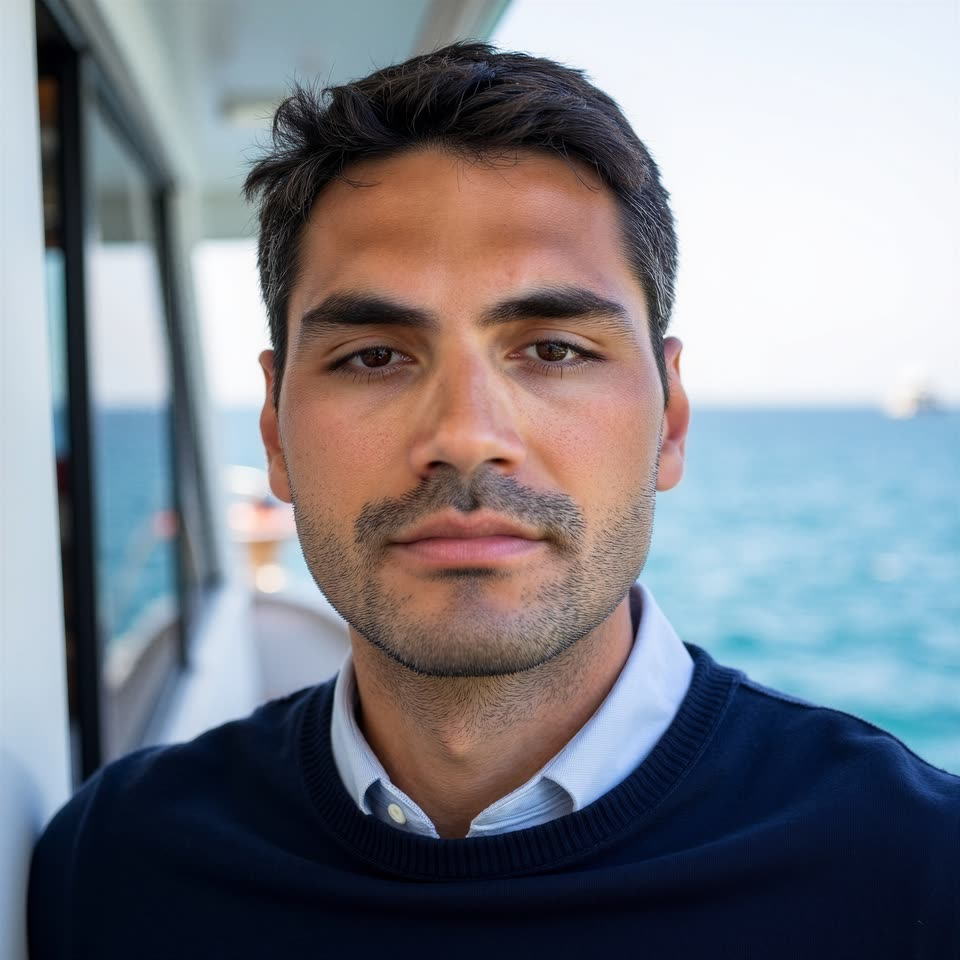
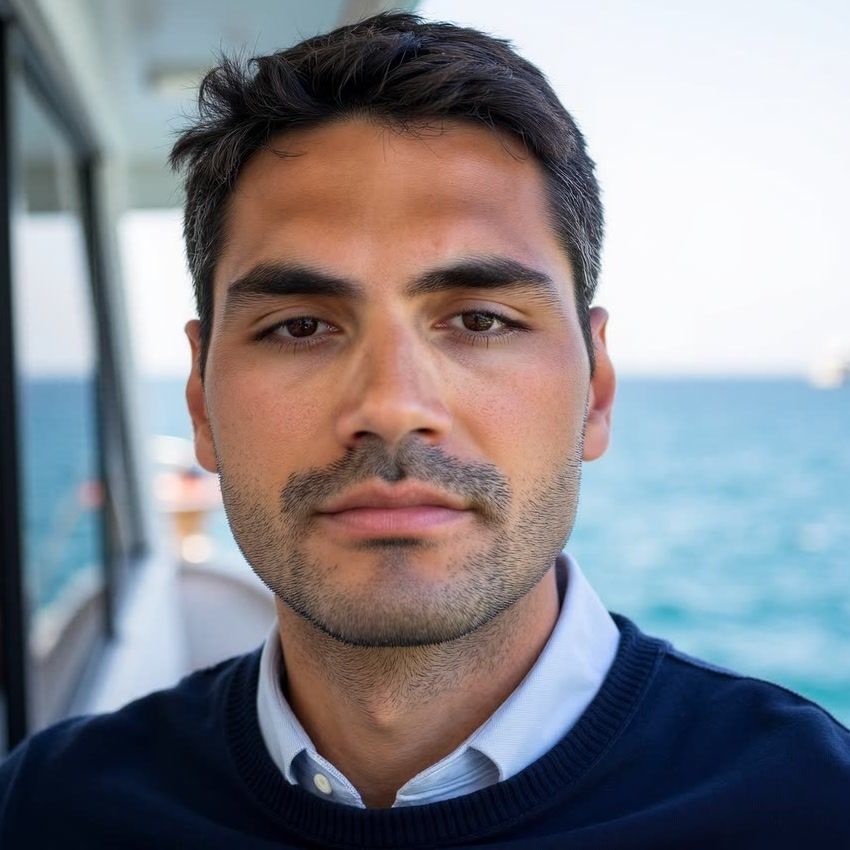
Tighten the headshot crop
The previous framing spent much of the circular avatar on the boat's
white pillar and the ocean, so the face read small at 168px. Cropped in
at native resolution (850x850 from 960), keeping the collar and sweater
so it still reads as a portrait rather than a cropped face. srcset
descriptors updated to the real intrinsic widths, and the social card
regenerated since it embeds the same file.

diff --git a/index.html b/index.html
@@ -342,7 +342,7 @@
         </div>
       </div>
       <img class="hero-portrait" src="assets/rodrigo-headshot.jpg"
-           srcset="assets/rodrigo-headshot.jpg 480w, assets/rodrigo-headshot@2x.jpg 960w"
+           srcset="assets/rodrigo-headshot.jpg 425w, assets/rodrigo-headshot@2x.jpg 850w"
            sizes="168px" width="168" height="168"
            alt="Portrait of Rodrigo França Chaves">
     </div>
